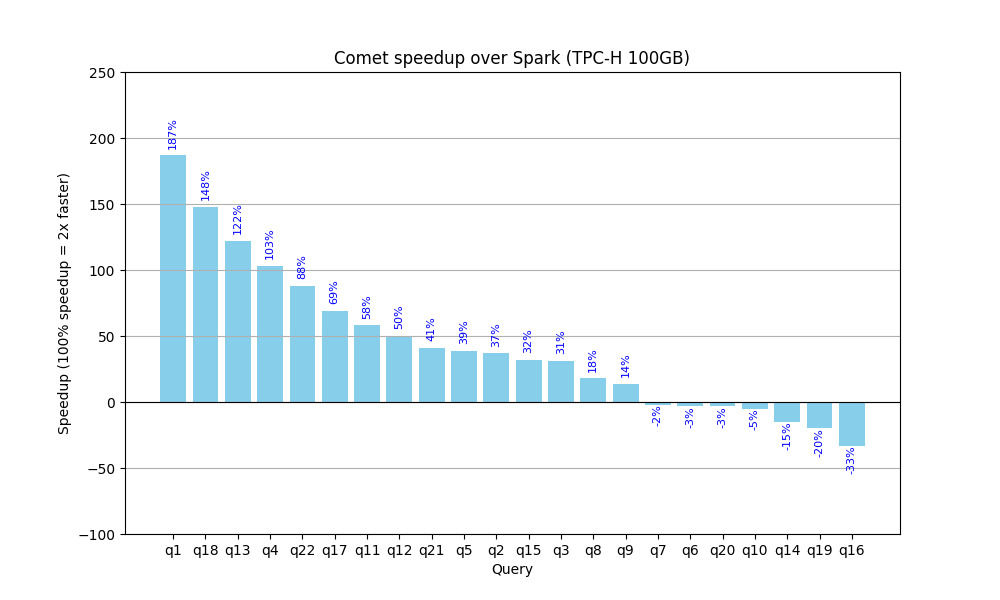
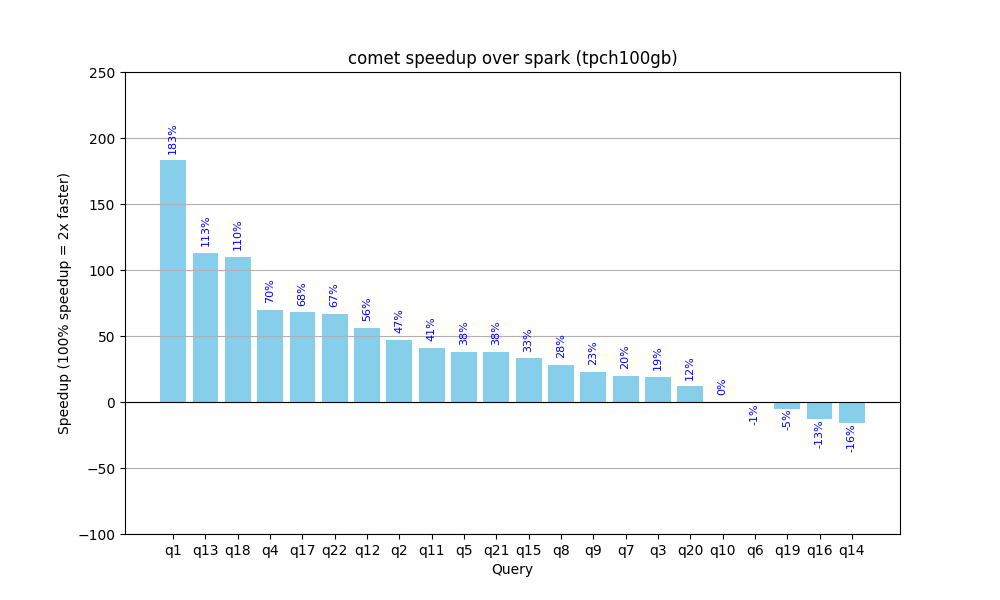
chore: Update benchmark results (#614)
* Update benchmark script and results

* update diagrams

* update docs

* revert cbo change

diff --git a/docs/source/contributor-guide/benchmarking.md b/docs/source/contributor-guide/benchmarking.md
@@ -51,7 +51,8 @@ $SPARK_HOME/bin/spark-submit \
 $SPARK_HOME/bin/spark-submit \
     --master $SPARK_MASTER \
     --conf spark.driver.memory=8G \
-    --conf spark.executor.memory=64G \
+    --conf spark.executor.instances=1 \
+    --conf spark.executor.memory=32G \
     --conf spark.executor.cores=8 \
     --conf spark.cores.max=8 \
     --conf spark.sql.autoBroadcastJoinThreshold=-1 \
@@ -68,8 +69,8 @@ $SPARK_HOME/bin/spark-submit \
     --conf spark.comet.batchSize=8192 \
     --conf spark.comet.exec.shuffle.enabled=true \
     --conf spark.comet.exec.shuffle.mode=auto \
+    --conf spark.comet.shuffle.enforceMode.enabled=true \
     --conf spark.shuffle.manager=org.apache.spark.sql.comet.execution.shuffle.CometShuffleManager \
-    --conf spark.sql.adaptive.coalescePartitions.enabled=false \
     tpcbench.py \
     --benchmark tpch \
     --data /mnt/bigdata/tpch/sf100/ \
@@ -99,7 +100,7 @@ is an ongoing task, and we welcome contributions from the community to help achi
 
 The raw results of these benchmarks in JSON format is available here:
 
-- [Spark](./benchmark-results/2024-05-30/spark-8-exec-5-runs.json)
-- [Comet](./benchmark-results/2024-05-30/comet-8-exec-5-runs.json)
-- [DataFusion](./benchmark-results/2024-05-30/datafusion-python-8-cores.json)
+- [Spark](./benchmark-results/2024-06-29/spark-8-exec-5-runs.json)
+- [Comet](./benchmark-results/2024-06-29/comet-8-exec-5-runs.json)
+- [DataFusion](./benchmark-results/2024-06-29/datafusion-python-8-cores.json)
  

diff --git a/README.md b/README.md
@@ -34,13 +34,14 @@ The following chart shows the time it takes to run the 22 TPC-H queries against 
 using a single executor with 8 cores. See the [Comet Benchmarking Guide](https://datafusion.apache.org/comet/contributor-guide/benchmarking.html)
 for details of the environment used for these benchmarks.
 
-When using Comet, the overall run time is reduced from 649 seconds to 440 seconds, a 1.5x speedup.
+When using Comet, the overall run time is reduced from 649 seconds to 433 seconds, a 1.5x speedup, with some queries
+showing a 2x-3x speedup.
 
 Running the same queries with DataFusion standalone (without Spark) using the same number of cores results in a 3.9x 
 speedup compared to Spark.
 
 Comet is not yet achieving full DataFusion speeds in all cases, but with future work we aim to provide a 2x-4x speedup 
-for many use cases.
+for a broader set of queries.
 
 ![](docs/source/_static/images/tpch_allqueries.png)
 
